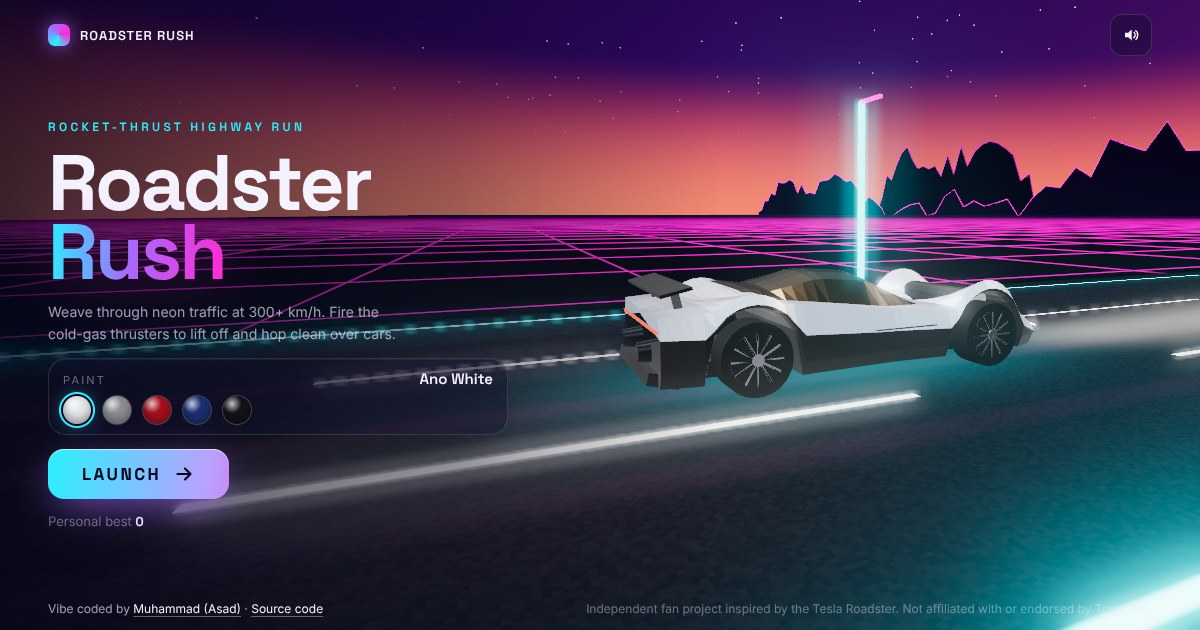
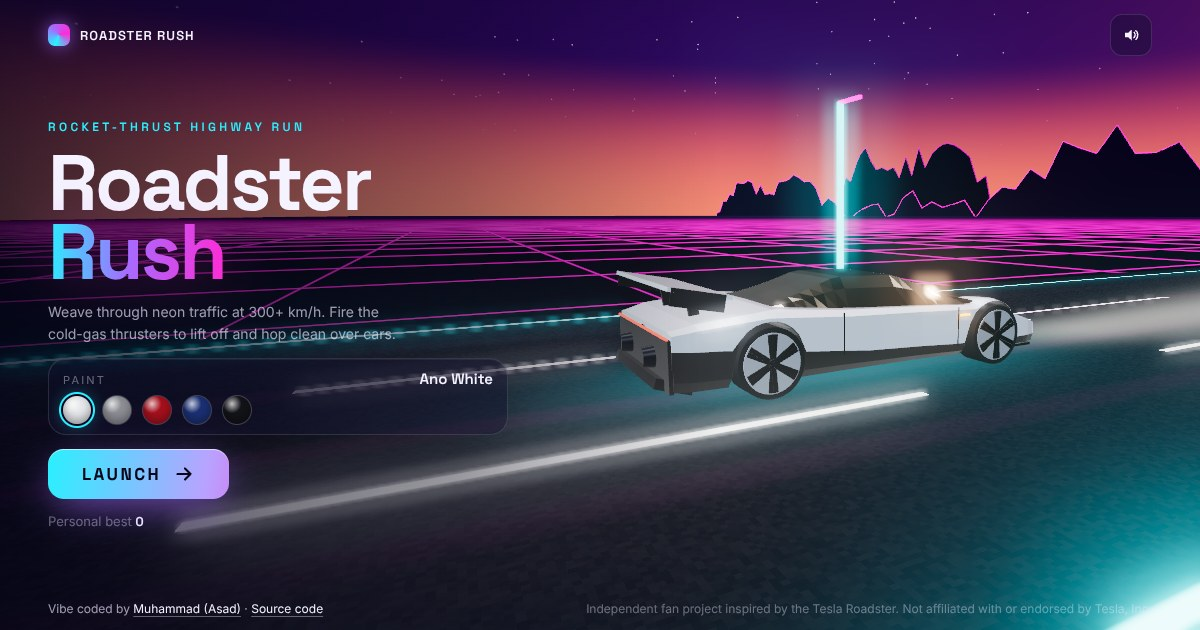
Reshape the car from Tesla's official 2026 Roadster photos
Wedge nose with light bar, long raked gold-tinted glasshouse, black
lower body sweeping up towards the tail, tall rear wing with end plates,
hood vents, door shut lines, amber side marker and six twin-spoke wheels
with pale aero discs. Refresh the link preview image.

Claude-Session: https://claude.ai/code/session_01V7gDxErUidC65CtxnTDJJj

Changed region(s): [[0.0, 0.1508, 1.0, 0.8746], [0.8017, 0.8746, 1.0, 1.0], [0.74, 0.6032, 0.7708, 0.6333]]

diff --git a/js/car.js b/js/car.js
@@ -9,10 +9,11 @@ export const PAINTS = [
   { id: 'black', name: 'Stealth Black', color: '#121317', metalness: 0.4, roughness: 0.3, clearcoat: 1 },
 ];
 
+// Proportions traced from Tesla's official 2026 Roadster side view (tesla.com/roadster).
 const LEN = 4.5;
-const WHEEL_R = 0.36;
-const WHEEL_Z = [-1.42, 1.38];
-const ARCH_R = 0.47;
+const WHEEL_R = 0.34;
+const WHEEL_Z = [-1.47, 1.35];
+const ARCH_R = 0.37;
 
 // Piecewise-linear lookup over [t, value] keys.
 function pl(keys, t) {
@@ -28,55 +29,60 @@ function pl(keys, t) {
 }
 
 // Right-hand half of the body cross-section at t (0 = nose, 1 = tail).
-// Points run from the underside centre to the roof centre; the first four are the black lower body.
+// Points run from the underside centre to the roof centre. The first four form the
+// black lower body, which sweeps upwards towards the rear as on the real car.
 function section(t) {
   const z = -LEN / 2 + LEN * t;
-  const w = pl([[0, 0.8], [0.07, 0.94], [0.24, 0.97], [0.45, 0.92], [0.7, 1.0], [0.92, 0.97], [1, 0.9]], t);
-  let yb = 0.14;
-  let sill = 0.28;
-  let belt = pl([[0, 0.3], [0.08, 0.44], [0.5, 0.5], [0.8, 0.58], [1, 0.6]], t);
-  let side = pl([[0, 0.4], [0.08, 0.58], [0.3, 0.7], [0.45, 0.72], [0.72, 0.86], [1, 0.8]], t);
-  const top = pl([[0, 0.38], [0.06, 0.5], [0.36, 0.72], [0.42, 0.76], [0.72, 0.84], [0.95, 0.82], [1, 0.77]], t);
+  const w = pl([[0, 0.86], [0.04, 0.93], [0.17, 0.99], [0.4, 0.95], [0.62, 0.97], [0.8, 1.01], [0.96, 0.98], [1, 0.92]], t);
+  let yb = 0.13;
+  let sill = pl([[0, 0.17], [0.3, 0.19], [1, 0.24]], t);
+  let belt = pl([[0, 0.26], [0.3, 0.28], [0.55, 0.33], [0.75, 0.42], [0.9, 0.5], [1, 0.52]], t);
+  let crease = pl([[0, 0.4], [0.05, 0.48], [0.17, 0.64], [0.3, 0.66], [0.6, 0.7], [0.8, 0.76], [0.95, 0.7], [1, 0.66]], t);
+  let shoulder = pl([[0, 0.41], [0.05, 0.5], [0.17, 0.67], [0.3, 0.7], [0.6, 0.75], [0.78, 0.82], [0.95, 0.74], [1, 0.68]], t);
+  const top = pl([[0, 0.41], [0.05, 0.47], [0.2, 0.6], [0.28, 0.64], [0.6, 0.74], [0.78, 0.82], [0.95, 0.74], [1, 0.68]], t);
 
-  // Wheel arches: lift the underside around each wheel, and swell the fenders over it.
+  // Wheel arches: lift the underside around each wheel and swell the fender over it.
   for (const wz of WHEEL_Z) {
     const dz = z - wz;
     if (Math.abs(dz) < ARCH_R) {
       const ay = WHEEL_R + Math.sqrt(ARCH_R * ARCH_R - dz * dz);
       yb = Math.max(yb, ay);
-      sill = Math.max(sill, ay + 0.02);
-      belt = Math.max(belt, ay + 0.05);
-      side = Math.max(side, belt + 0.09);
+      sill = Math.max(sill, ay + 0.01);
+      belt = Math.max(belt, ay + 0.02);
+      crease = Math.max(crease, ay + 0.02);
+      shoulder = Math.max(shoulder, crease + 0.02);
     }
   }
   return {
     z,
     pts: [
       [0, yb],
-      [w - 0.1, yb],
+      [w - 0.12, yb],
       [w - 0.03, sill],
       [w, belt],
-      [w - 0.08, side],
-      [w * 0.52, (side + top) / 2 + 0.01],
+      [w, crease],
+      [w - 0.13, shoulder],
+      [w * 0.5, Math.max(top, shoulder - 0.02)],
       [0, top],
     ],
   };
 }
 
+// Low, steeply raked greenhouse with a short flat roof, set on the body shoulder.
 function greenhouse(t) {
   const z = -LEN / 2 + LEN * t;
   const body = section(t).pts;
-  const base = body[4][1] - 0.01;
-  const gw = pl([[0.35, 0.72], [0.5, 0.75], [0.8, 0.6]], t);
-  const roof = pl([[0.35, base], [0.5, 1.06], [0.62, 1.1], [0.81, base + 0.01]], t);
+  const base = body[5][1] - 0.01;
+  const gw = pl([[0.2, 0.8], [0.4, 0.68], [0.6, 0.65], [0.76, 0.72]], t);
+  const roof = pl([[0.2, base], [0.42, 1.04], [0.58, 1.05], [0.76, base + 0.01]], t);
   const h = roof - base;
   return {
     z,
     pts: [
       [gw, base],
-      [gw * 0.76, base + h * 0.82],
-      [gw * 0.36, roof],
-      [0, roof + 0.01 * Math.min(1, h * 10)],
+      [gw * 0.86, base + h * 0.62],
+      [gw * 0.72, roof],
+      [0, roof + 0.005],
     ],
   };
 }
@@ -146,73 +152,99 @@ export function createRoadster() {
   const tilt = new THREE.Group(); // body roll and pitch live here, wheels stay planted
   group.add(tilt);
 
-  const N = 46;
+  const N = 60;
   const body = [];
   const glassSt = [];
   for (let i = 0; i <= N; i++) body.push(section(i / N));
-  for (let i = 0; i <= 18; i++) glassSt.push(greenhouse(0.35 + (0.46 * i) / 18));
+  for (let i = 0; i <= 20; i++) glassSt.push(greenhouse(0.2 + (0.56 * i) / 20));
+  const at = (t) => -LEN / 2 + LEN * t;
 
   const paint = new THREE.MeshPhysicalMaterial({ flatShading: true, side: THREE.DoubleSide });
   const lower = new THREE.MeshPhysicalMaterial({
-    color: '#0c0d10', metalness: 0.3, roughness: 0.45, clearcoat: 0.4, flatShading: true, side: THREE.DoubleSide,
+    color: '#0b0c0f', metalness: 0.3, roughness: 0.4, clearcoat: 0.5, flatShading: true, side: THREE.DoubleSide,
   });
-  const gold = new THREE.MeshPhysicalMaterial({
-    color: '#7a5a24', metalness: 1, roughness: 0.12, clearcoat: 1, clearcoatRoughness: 0.05,
+  const glass = new THREE.MeshPhysicalMaterial({
+    color: '#4a3618', metalness: 0.9, roughness: 0.08, clearcoat: 1, clearcoatRoughness: 0.03,
     flatShading: true, side: THREE.DoubleSide,
   });
-  const titanium = new THREE.MeshStandardMaterial({ color: '#9da1a8', metalness: 1, roughness: 0.3 });
+  const black = new THREE.MeshStandardMaterial({ color: '#050506', roughness: 0.5, metalness: 0.2 });
 
-  tilt.add(new THREE.Mesh(loft(body, 3, 6, true), paint));
+  tilt.add(new THREE.Mesh(loft(body, 3, 7, true), paint));
   tilt.add(new THREE.Mesh(loft(body, 0, 3, true), lower));
-  tilt.add(new THREE.Mesh(loft(glassSt, 0, 3, false), gold));
+  tilt.add(new THREE.Mesh(loft(glassSt, 0, 3, false), glass));
 
-  // Underfloor and diffuser fill the space between the arches.
-  const floor = new THREE.Mesh(new THREE.BoxGeometry(1.3, 0.16, LEN - 0.5), lower);
-  floor.position.y = 0.24;
+  // Underfloor, front splitter, black tail panel and diffuser.
+  const floor = new THREE.Mesh(new THREE.BoxGeometry(1.3, 0.14, LEN - 0.6), lower);
+  floor.position.y = 0.22;
   tilt.add(floor);
-  const diffuser = new THREE.Mesh(new THREE.BoxGeometry(1.5, 0.12, 0.3), lower);
-  diffuser.position.set(0, 0.2, LEN / 2 - 0.05);
-  diffuser.rotation.x = -0.25;
+  const splitter = new THREE.Mesh(new THREE.BoxGeometry(1.74, 0.03, 0.3), lower);
+  splitter.position.set(0, 0.14, -LEN / 2 + 0.2);
+  tilt.add(splitter);
+  const tailPanel = new THREE.Mesh(new THREE.BoxGeometry(1.8, 0.48, 0.04), lower);
+  tailPanel.position.set(0, 0.38, LEN / 2 + 0.01);
+  tilt.add(tailPanel);
+  const diffuser = new THREE.Mesh(new THREE.BoxGeometry(1.5, 0.1, 0.36), lower);
+  diffuser.position.set(0, 0.17, LEN / 2 - 0.06);
+  diffuser.rotation.x = -0.3;
   tilt.add(diffuser);
 
-  // Titanium accent along the beltline.
+  // Twin hood vents in front of the windscreen.
   for (const sx of [-1, 1]) {
-    const strip = new THREE.Mesh(new THREE.BoxGeometry(0.012, 0.012, 1.5), titanium);
-    strip.position.set(sx * 0.93, 0.52, 0.05);
-    tilt.add(strip);
+    const vent = new THREE.Mesh(new THREE.BoxGeometry(0.46, 0.012, 0.42), black);
+    vent.position.set(sx * 0.36, 0.555, at(0.13));
+    vent.rotation.x = -0.18;
+    tilt.add(vent);
+  }
+
+  // Door shut lines and the amber side marker behind the front wheel.
+  const amber = new THREE.MeshBasicMaterial({ color: new THREE.Color(3, 1.2, 0.1) });
+  for (const sx of [-1, 1]) {
+    for (const [t, h] of [[0.29, 0.44], [0.62, 0.42]]) {
+      const cut = new THREE.Mesh(new THREE.BoxGeometry(0.006, h, 0.012), black);
+      const s = section(t).pts;
+      cut.position.set(sx * (s[3][0] + 0.004), (s[3][1] + s[4][1]) / 2, at(t));
+      tilt.add(cut);
+    }
+    const s = section(0.27).pts;
+    const marker = new THREE.Mesh(new THREE.BoxGeometry(0.01, 0.025, 0.14), amber);
+    marker.position.set(sx * (s[3][0] + 0.006), 0.6, at(0.27));
+    tilt.add(marker);
   }
 
   // Light signatures (values above 1 feed the bloom pass).
   const white = new THREE.MeshBasicMaterial({ color: new THREE.Color(2.6, 2.9, 3.3) });
-  const lightBar = new THREE.Mesh(new THREE.BoxGeometry(1.2, 0.02, 0.02), white);
-  lightBar.position.set(0, 0.3, -LEN / 2 - 0.005);
+  const lightBar = new THREE.Mesh(new THREE.BoxGeometry(1.5, 0.016, 0.02), white);
+  lightBar.position.set(0, 0.405, -LEN / 2 - 0.005);
   tilt.add(lightBar);
   for (const sx of [-1, 1]) {
-    // Concealed corner headlights: thin blades in the nose corners.
-    const blade = new THREE.Mesh(new THREE.BoxGeometry(0.26, 0.018, 0.04), white);
-    blade.position.set(sx * 0.66, 0.4, -LEN / 2 + 0.02);
-    blade.rotation.set(-0.3, sx * 0.35, sx * -0.08);
+    // Concealed headlights: thin blades at the nose corners.
+    const blade = new THREE.Mesh(new THREE.BoxGeometry(0.2, 0.014, 0.03), white);
+    blade.position.set(sx * 0.74, 0.43, -LEN / 2 + 0.06);
+    blade.rotation.set(-0.2, sx * 0.3, 0);
     tilt.add(blade);
   }
   const red = new THREE.MeshBasicMaterial({ color: new THREE.Color(3, 0.06, 0.1) });
-  const tail = new THREE.Mesh(new THREE.BoxGeometry(1.66, 0.026, 0.02), red);
-  tail.position.set(0, 0.66, LEN / 2 + 0.01);
+  const tail = new THREE.Mesh(new THREE.BoxGeometry(1.76, 0.02, 0.02), red);
+  tail.position.set(0, 0.63, LEN / 2 + 0.03);
   tilt.add(tail);
 
-  // Active rear wing on two titanium struts.
+  // The signature tall rear wing: wide blade with end plates on swan-neck struts.
   const wing = new THREE.Group();
-  const blade = new THREE.Mesh(new THREE.BoxGeometry(1.62, 0.03, 0.3), lower);
-  blade.position.z = 0.04;
+  const blade = new THREE.Mesh(new THREE.BoxGeometry(1.9, 0.04, 0.6), paint);
   wing.add(blade);
   for (const sx of [-1, 1]) {
-    const strut = new THREE.Mesh(new THREE.BoxGeometry(0.03, 0.22, 0.08), titanium);
-    strut.position.set(sx * 0.5, -0.11, 0);
+    const plate = new THREE.Mesh(new THREE.BoxGeometry(0.02, 0.16, 0.5), lower);
+    plate.position.set(sx * 0.95, -0.06, 0.02);
+    wing.add(plate);
+    const strut = new THREE.Mesh(new THREE.BoxGeometry(0.04, 0.3, 0.1), lower);
+    strut.position.set(sx * 0.42, -0.16, -0.12);
+    strut.rotation.x = 0.35;
     wing.add(strut);
   }
-  wing.position.set(0, 0.86, LEN / 2 - 0.22);
+  wing.position.set(0, 1.0, at(0.94));
   tilt.add(wing);
 
-  // Cold-gas thrusters behind the rear plate.
+  // Cold-gas thrusters set into the tail panel.
   const nozzleMat = new THREE.MeshStandardMaterial({ color: '#2a2d35', metalness: 0.9, roughness: 0.25 });
   const nozzleGeo = new THREE.CylinderGeometry(0.09, 0.12, 0.2, 20, 1, true);
   nozzleGeo.rotateX(Math.PI / 2);
@@ -237,10 +269,10 @@ export function createRoadster() {
   const flames = [];
   for (const sx of [-1, 1]) {
     const n = new THREE.Mesh(nozzleGeo, nozzleMat);
-    n.position.set(sx * 0.4, 0.42, LEN / 2 + 0.02);
+    n.position.set(sx * 0.42, 0.4, LEN / 2 + 0.04);
     tilt.add(n);
     const f = new THREE.Mesh(flameGeo, flameMat);
-    f.position.set(sx * 0.4, 0.42, LEN / 2 + 0.1);
+    f.position.set(sx * 0.42, 0.4, LEN / 2 + 0.12);
     f.scale.set(1, 1, 0.001);
     f.visible = false;
     tilt.add(f);
@@ -250,33 +282,39 @@ export function createRoadster() {
   thrustLight.position.set(0, 0.6, LEN / 2 + 0.7);
   tilt.add(thrustLight);
 
-  // Wheels: low-profile tyre, dark titanium rim with thin spokes.
+  // Wheels: black tyre, pale aero disc and six black twin spokes.
   const tyreMat = new THREE.MeshStandardMaterial({ color: '#0a0a0c', roughness: 0.85 });
-  const rimMat = new THREE.MeshStandardMaterial({ color: '#3b3e44', metalness: 1, roughness: 0.3 });
-  const spokeMat = new THREE.MeshStandardMaterial({ color: '#b9bdc4', metalness: 1, roughness: 0.2 });
-  const tyreGeo = new THREE.CylinderGeometry(WHEEL_R, WHEEL_R, 0.32, 36);
+  const discMat = new THREE.MeshStandardMaterial({ color: '#d3d6db', metalness: 0.5, roughness: 0.35 });
+  const spokeMat = new THREE.MeshStandardMaterial({ color: '#0c0d10', metalness: 0.6, roughness: 0.25 });
+  const tyreGeo = new THREE.CylinderGeometry(WHEEL_R, WHEEL_R, 0.34, 40);
   tyreGeo.rotateZ(Math.PI / 2);
-  const barrelGeo = new THREE.CylinderGeometry(0.27, 0.27, 0.33, 36, 1, true);
-  barrelGeo.rotateZ(Math.PI / 2);
-  const hubGeo = new THREE.CylinderGeometry(0.06, 0.06, 0.34, 16);
+  const discGeo = new THREE.CylinderGeometry(0.29, 0.29, 0.02, 40);
+  discGeo.rotateZ(Math.PI / 2);
+  const hubGeo = new THREE.CylinderGeometry(0.05, 0.05, 0.05, 16);
   hubGeo.rotateZ(Math.PI / 2);
-  const spokeGeo = new THREE.BoxGeometry(0.02, 0.25, 0.022);
-  spokeGeo.translate(0, 0.135, 0);
+  const spokeGeo = new THREE.BoxGeometry(0.02, 0.27, 0.05);
+  spokeGeo.translate(0, 0.14, 0);
   const wheels = [];
   for (const z of WHEEL_Z) {
     for (const sx of [-1, 1]) {
       const w = new THREE.Group();
       w.rotation.order = 'YXZ'; // spin first, then steer
       w.add(new THREE.Mesh(tyreGeo, tyreMat));
-      w.add(new THREE.Mesh(barrelGeo, rimMat));
-      w.add(new THREE.Mesh(hubGeo, spokeMat));
-      for (let k = 0; k < 12; k++) {
-        const s = new THREE.Mesh(spokeGeo, spokeMat);
-        s.position.x = sx * 0.15;
-        s.rotation.x = (k / 12) * Math.PI * 2;
-        w.add(s);
+      const disc = new THREE.Mesh(discGeo, discMat);
+      disc.position.x = sx * 0.165;
+      w.add(disc);
+      const hub = new THREE.Mesh(hubGeo, spokeMat);
+      hub.position.x = sx * 0.18;
+      w.add(hub);
+      for (let k = 0; k < 6; k++) {
+        for (const d of [-0.09, 0.09]) {
+          const s = new THREE.Mesh(spokeGeo, spokeMat);
+          s.position.x = sx * 0.18;
+          s.rotation.x = (k / 6) * Math.PI * 2 + d;
+          w.add(s);
+        }
       }
-      w.position.set(sx * 0.84, WHEEL_R, z);
+      w.position.set(sx * 0.86, WHEEL_R, z);
       group.add(w);
       wheels.push(w);
     }
@@ -305,8 +343,8 @@ export function createRoadster() {
       // Wing rises for downforce in corners and at lower speed, stows flat for top speed.
       const want = thrust > 0.2 ? 0 : Math.max(Math.min(Math.abs(vx) / 8, 1), speed < 60 ? 1 : 0.2);
       deploy += (want - deploy) * Math.min(1, dt * 4);
-      wing.position.y = 0.86 + deploy * 0.16;
-      wing.rotation.x = deploy * 0.22;
+      wing.position.y = 0.94 + deploy * 0.08;
+      wing.rotation.x = -0.05 - deploy * 0.14;
 
       flameUniforms.uTime.value = flameT;
       flameUniforms.uPower.value = thrust;
